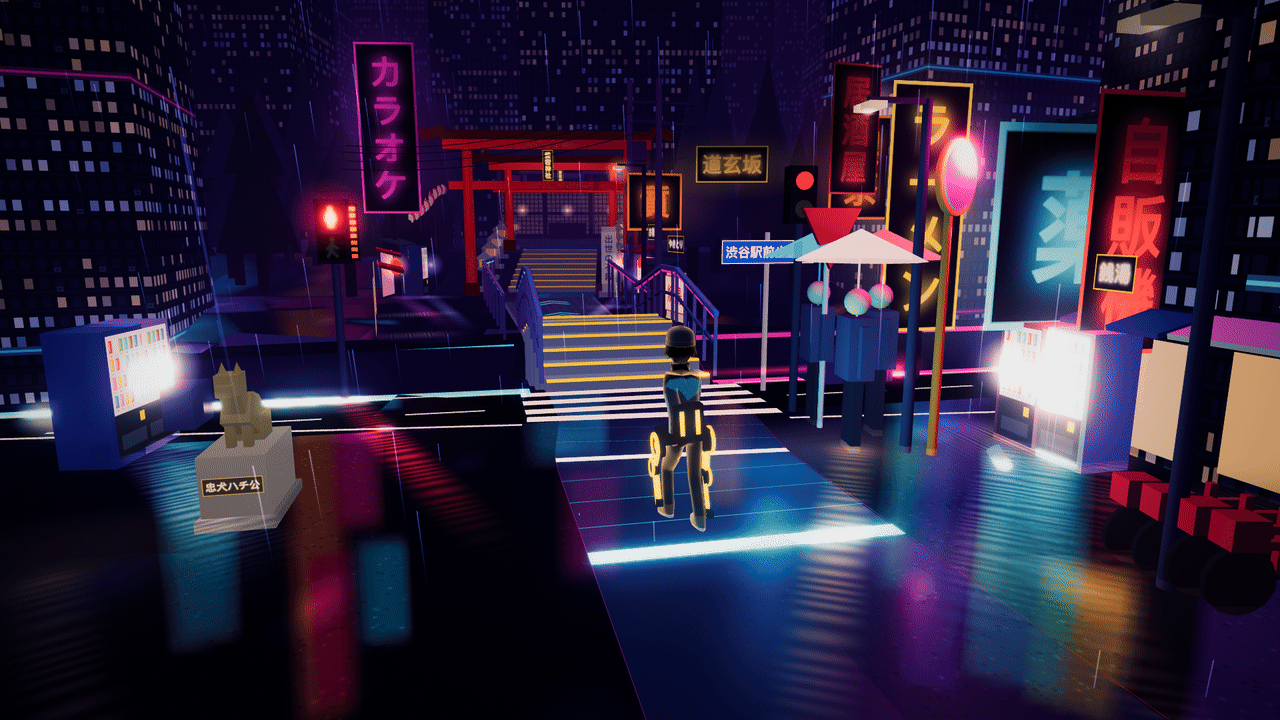
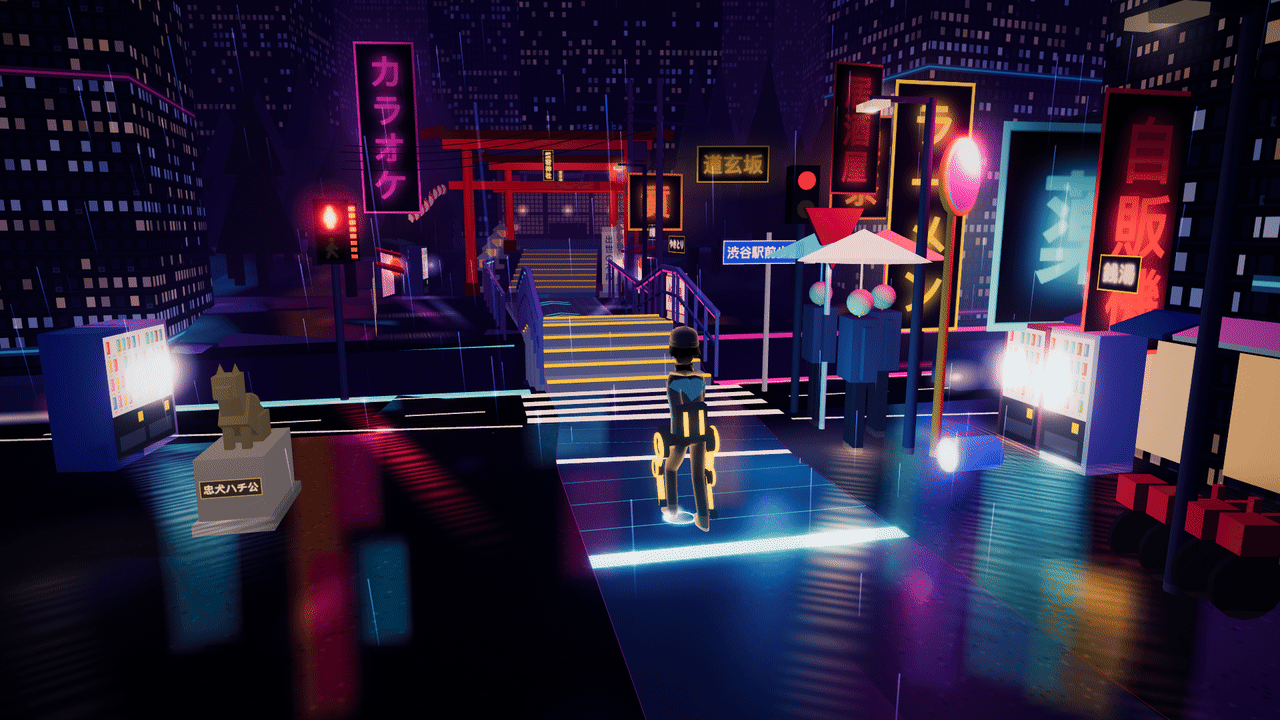
M2：东京贩卖机的罐子放大（3 米外看得清）+ kit.sfx 乘设置页音效音量、离线预览不出声

diff --git a/shellos/ui/static/game/themes/cyber_night/interact.js b/shellos/ui/static/game/themes/cyber_night/interact.js
@@ -13,16 +13,16 @@ export function buildInteract(scene, ctx, E) {
   const vend = (E.vend || []).filter(v => v.s < route.N - 2);
   const flashMat = new THREE.MeshBasicMaterial({ color: '#dff4ff', transparent: true, opacity: 0, depthWrite: false, blending: THREE.AdditiveBlending, toneMapped: false });
   const flash = new THREE.Mesh(new THREE.PlaneGeometry(0.56, 1.18), flashMat); flash.visible = false; flash.name = 'vendFlash'; scene.add(flash);
-  const can = new THREE.Mesh(new THREE.CylinderGeometry(0.065, 0.065, 0.22, 12).rotateZ(Math.PI / 2), new THREE.MeshBasicMaterial({ color: '#e8283a', toneMapped: false }));
+  const can = new THREE.Mesh(new THREE.CylinderGeometry(0.15, 0.15, 0.46, 16).rotateZ(Math.PI / 2), new THREE.MeshLambertMaterial({ color: '#e8283a', emissive: '#5a0a12' }));   // 比真罐大 2 倍多：3 米外看得清（吃光，不走泛光，免得颜色白成一团）
   can.visible = false; can.name = 'vendCan'; scene.add(can);
   const trig = vend.map(() => kit.edge()), cp = new THREE.Vector3(), cv = new THREE.Vector3();
   let fT = 0, cT = 0, cy0 = 0, cols = ['#e8283a', '#2a6cff', '#f2c230', '#2fbf6a'], ci = 0;
   const drop = v => {
     const n = new THREE.Vector3(Math.sin(v.ry), 0, Math.cos(v.ry));            // 机身正面朝路
     flash.position.set(v.a.pos.x + n.x * 0.27, v.y0 + 0.64, v.a.pos.z + n.z * 0.27); flash.rotation.y = v.ry; flash.visible = true; fT = 0.6;
-    cp.set(v.a.pos.x + n.x * 0.32, v.y0 + 0.22, v.a.pos.z + n.z * 0.32); cy0 = v.y0 + 0.07;
-    cv.copy(n).multiplyScalar(1.3).add(new THREE.Vector3((R() - 0.5) * 0.4, 1.1, (R() - 0.5) * 0.4)); cT = 2.5;
-    can.material.color.set(cols[ci++ % cols.length]); can.visible = true; can.rotation.set(0, v.ry + Math.PI / 2, 0);
+    cp.set(v.a.pos.x + n.x * 0.4, v.y0 + 0.3, v.a.pos.z + n.z * 0.4); cy0 = v.y0 + 0.15;
+    cv.copy(n).multiplyScalar(1.6).add(new THREE.Vector3((R() - 0.5) * 0.4, 1.6, (R() - 0.5) * 0.4)); cT = 3.0;   // 抛高一点、滚远一点，停在路边多留一会
+    const cc = cols[ci++ % cols.length]; can.material.color.set(cc); can.material.emissive.set(cc).multiplyScalar(0.35); can.visible = true; can.rotation.set(0, v.ry + Math.PI / 2, 0);
     kit.sfx('can');
   };
 

diff --git a/shellos/ui/static/game/themes/kit.js b/shellos/ui/static/game/themes/kit.js
@@ -210,9 +210,10 @@ export function stepFx(ctx, { dust = '#d8cbb4', flash = '#fff2c8', add = false, 
 // 一次性触发：edge(on) 在 on 从假变真的那一帧返回 true（同一圈只响一次；on 变回假再变真才再响）
 export function edge() { let was = false; return on => { const r = on && !was; was = !!on; return r; }; }
 
-// 音效：WebAudio 现合成（不下载文件）。sfx('can' | 'bell' | 'splash' | 'chime' | 'flutter')。?sfx=0 静音。
+// 音效：WebAudio 现合成（不下载文件）。sfx('can' | 'bell' | 'splash' | 'chime' | 'flutter')。?sfx=0 静音；离线预览（?preview=）不出声（选山页一排预览不会一起响）。
+//   音量再乘 U 设置页的「捷风 / 音效音量」（window.__settings.get('vSfx')，0–100；设置页只管 <audio>，WebAudio 这里自己乘）。
 //   浏览器不让没交互过的页面出声：上下文挂起时等第一次按键 / 点击再恢复（空格走路就算）。音量都压低，峰哥说话时不抢
-const SFX_ON = new URLSearchParams(location.search).get('sfx') !== '0';
+const SFX_Q = new URLSearchParams(location.search), SFX_ON = SFX_Q.get('sfx') !== '0' && !SFX_Q.has('preview');
 let AC = null;
 function audio() {
   if (!SFX_ON) return null;
@@ -224,8 +225,9 @@ function audio() {
   return AC.state === 'running' ? AC : (AC.resume(), null);
 }
 export function sfx(name, vol = 1) {
-  const ac = audio(); if (!ac) return;
-  const t = ac.currentTime, out = ac.createGain(); out.gain.value = 0.22 * vol; out.connect(ac.destination);
+  const ac = audio(), k = window.__settings ? window.__settings.get('vSfx') / 100 : 1;
+  if (!ac || !(k > 0)) return;
+  const t = ac.currentTime, out = ac.createGain(); out.gain.value = 0.22 * vol * k; out.connect(ac.destination);
   const tone = (f, dur, g = 1, type = 'sine', t0 = 0) => {
     const o = ac.createOscillator(), e = ac.createGain(); o.type = type; o.frequency.value = f;
     e.gain.setValueAtTime(0, t + t0); e.gain.linearRampToValueAtTime(g, t + t0 + 0.005); e.gain.exponentialRampToValueAtTime(0.0001, t + t0 + dur);

diff --git a/docs/指挥板.md b/docs/指挥板.md
@@ -18,7 +18,7 @@
 | **J 疾风 NPC**（追兵，致敬版） | `static/game/npc.js`（新，行为）、`static/game/npc_jifeng.js`（新，造型 / 特效）；`engine.js` 只加 import + 1 行 init；`brain/tts.py` 加 `voice` 参数 + `--npc`；`shellos/agent/voice.py` 加 `NPC_VOICE` / `NPC_LINES`、缓存分目录；`server.py` 加 `/voice/npc.wav`（在 `/voice/*` 里）；`docs/提交/素材授权.md`（新） | 原创风系追兵：跟在玩家身后，步频决定远近，走慢了冲刺逼近（前倾 + 拖尾 + 风刃 + 喊一句），走快了被甩开，红灯她也站定；登顶结局「抓到你了」/「被你甩掉了」；只读 /state，不碰任何控制接口；`?npc=0` 关 | **第 10 轮 · 捷风 A/B 候选（等球球挑）**：A = STL 雕像（缺省），B = `?npclook=rig` 程序化造型。B 是 CesiumMan 骨架（和峰哥同一套），直接用 A2 的 `animate()`：用 `synthHip` 按她自己的速度合成步态，冲刺时步频过 150 自动切成跑，登顶抓到时举手，**是真的在跑，不是雕像在飘**。原头盔按 fengge.js 的做法塌进脖口，换成动漫比例的头（半径 0.108 / 0.13 / 0.101 m，头高约身高 1/5.6，下巴收尖）；脸是 canvas 手绘的扁平动漫脸（`jettFace()`：蓝色大眼、粗眼线外眼角上挑、半垂的上眼皮显得冷淡、细眉、小嘴一边嘴角略翘、脸颊一道白色风纹），正投影贴在前半球；白发是低多边形、平面着色：发帽 + 5 片刘海 + 两侧鬓发 + 后脑偏上扎起的短马尾（钴蓝发圈）；身上是钴蓝短外套（躯干分区）+ 白色立领 + 白护臂（肘到腕）+ 右胯偏后三把飞刀（银刃、深色柄）。配色全部读 `WHO.jett`。加起来约 2.5k 三角，不用 LOD（STL 那边已经接了 lod.js）。原创造型现在也改用 A2 的 animate。**截图**：`docs/提交/截图/npc_ab_overview.png`（2 列 × 3 行，左 A、右 B：东京跟拍 / 珠峰正面 / 近景看脸），单张 `npc_ab_{tokyo,everest,face}_{stl,rig}.png`，B 跑起来 `npc_ab_rig_run_1~3.png`。STL 雕像**没贴手绘脸**：它的脸是雕出来的五官，画上去对不齐，反而怪；要贴的话告诉我。帧率：这台机器负载 40（其他会话开着好几个 Chrome），测出来的 fps 不作数，B 比 A 少约 4 万三角。<br>**第 9 轮 · STL 雕像默认打开 ✅（M2 实测）**：合了 main（含 L 的 d260001 清洗拷贝）。先确认展位机上的 lighting.js / npc_jifeng.js / npc.js 和合并后的一模一样（md5 相同）。在展位机上开无头 Chrome（Metal，M2 Pro），**没碰 8765**：临时起一个只读静态服务 8877（多线程、监听队列 128），/worlds.json 用 CDP 从本机塞进去，用完关掉。缺省档（泛光 + 4×MSAA）：**对照 `?npc=0` 0% 黑**，所以这个环境现在是有效的对照；`?npcstl=1` 0% 黑、60 fps；原创造型 0% 黑。颜色 / 轮廓光目测正常：钴蓝外套、白发、风白拖尾和风刃，白轮廓光，没有青。所以把 STL 改回**默认开**（总指挥的热修那两行换掉了）：`?npcstl=0` 用原创造型，`=<url>` 换文件。改完用 CDP 把新的 npc_jifeng.js 塞进 M2 的页面、不带参数再验：东京跟拍 / 珠峰正面镜头都加载了雕像、0% 黑、60 fps；`?npcstl=0` 正常退回原创造型。截图：`docs/提交/截图/npc_tokyo_m2.png`、`npc_everest_m2.png`（M2 实拍，珠峰正面镜头下峰哥全身露出来）。展位机上的无头 Chrome、8877、/tmp/j-cdp、隧道都清理了。<br>**第 8 轮 · 标签避让 ✅**：捷风的名字牌和气泡照 hud.js 影子标签的做法，和 HUD 面板重叠就挪到面板下面，放不下就挪到上面。避让列表是 hud.js 的 AVOID 再加 `uidle` / `uqr` / `ghostTag`。`--sim` 验证：不按 R2（`#uready` 显示），80 步/分追上后连续采样 8 次，每次都在说话、都不重叠；强制出气泡时 bbox 标签 [763,482,910,543] 对 面板 [375,297,904,437]，不重叠，也没压到影子标签。<br>**第 7 轮 · ART P0/P1 ✅**（已合 main 3da7c39）：① **站位**（§6 构图铁律）：`LAT` 0.85 → **−0.9**，走右路沿，也就是离跟拍镜头（左后 1.4）远的那一侧，影子在 −0.5；不再进「镜头 → 峰哥」的视锥。追上的那一下绕 1 s 小弧：往前 0.35 步、往峰哥肩膀那边切 0.6（到 −0.3），然后回路沿；登顶抓到时站在峰哥右后侧。截图：`npc_art_tokyo_follow.png`（跟拍，峰哥全身露出来，她在右边）、`npc_art_tokyo_front.png`（正面镜头，峰哥全身、她在他身后侧面）、`npc_art_everest_p24.png`（北坳冰壁，就是 ART 截图里被挡的那个位置）、`npc_art_chase_1~3.png`（`--sim` 80 步/分追上，风白拖尾）。② **配色**：全部改读 `style.js` 的 `WHO.jett`：外套钴蓝 `coat`、白发 `hair`、拖尾 / 风刃 / 风环 `wind`（`#eaf2ff` 风白，原来是青 `#9ff3ff`）、轮廓光 `rim`（`#f2f6ff` 白，原来是青 `#bfeeff`）；原创造型和 STL 雕像都换了。名字牌蓝底白字、白边，气泡白字、蓝边。`tests/test_style.py` 通过。③ 标签离头顶 0.45 → 0.28，跟着她自己的头走，离镜头近时不再飘很高；出画时钉在右下（她在右边）。④ 按 P 线的接法接了 `lod.js`：`simplify(geo, 0.012)` 做远档、双面，6 m 外切换（`?npcstl=1` 本机验过能加载、无报错）。STL 仍然默认关，等 L 修好后期、在 M2 上验过再打开。<br>**第 6 轮 · M2 黑块排查（没查清，STL 保持默认关）**：① 在展位机上开了无头 Chrome（Metal，`ANGLE Metal Renderer: Apple M2 Pro`），用 CDP 截图，开头两次确实复现了「捷风」标签居中的黑块。**但对照组作废了整轮结论**：同一个无头环境里 `?npc=0`（完全没有 NPC）也是 100% 黑、原创造型也黑，只有 `?aa=0` / `?bloom=0` / `?fx=off` 不黑。所以**无头 Chrome 在 M2 上的 4×MSAA + 半浮点 + 泛光本身就出黑**，和雕像无关，它复现不了展位的真实问题。在它上面做的 clamp、centroid 插值、材质换成纯色、三角形砍到 1/4、藏雕像、藏拖尾这些 A/B 都是 99% 黑，**全部不作数**。② 真正排除了的：雕像 22,271 个顶点里没有 NaN 或零长度的法线，坐标都在 ±5 以内（本机页面里逐个查的）；lighting.js 第一帧收集投影物体和 NPC 异步加载确实有竞态，但雕像没被收进去（cast / recv 都是 false）时照样黑，所以不是它。③ 留下的改动：菲涅尔 `pow` 的底数 clamp 到 [0,1]（pow 负数在 GLSL 里没有定义，属于防御性写法，已注明不是黑块的原因）；centroid 已撤回；STL 仍然默认关（总指挥的热修不动）。④ **下一步建议**（要在展位的真实 Chrome 窗口上看，无头不行）：在展位浏览器依次开 `?npcstl=1&aa=0`、`?npcstl=1&bloom=0`、`?npcstl=1&fx=off`，看哪个不黑，再定修法：MSAA 类可以给雕像单独关抗锯齿 / 改用 FXAA，泛光类就给泛光输入加 NaN 过滤。⑤ `?npc=0` 加载失败：合了新 main（监听队列 128）后，本机 GPU 无头 `/game?npc=0`（实时和预览）都能 ready、errlog 空，复现不了，跟连接 RST 的解释对得上；展位上还没复验（8765 当时在重启，端口没开）。⑥ 展位机上我开的无头 Chrome（9333）、临时静态服务（8877）、SSH 隧道都关了，/tmp/j-cdp 也删了；没碰 8765、没发 POST、没改展位的文件。<br>**第 5 轮 · 捷风 STL 雕像接进游戏 ✅**：Sketchfab 要登录，没用。改用 Thingiverse thing:4326703（作者 Frojj123，CC BY 4.0，粉丝原创的 3D 打印手办，不是游戏提取），总指挥放在主工作区的 `models/jett/jett.stl`（已被 git 忽略）。① `vendor/STLLoader.js`：本机只有 three **0.169** 官方包里的 STLLoader（0.160 不在 npm 缓存里；为了一个文件下整个包就没下）。它引用的 BufferAttribute / BufferGeometry / Color / FileLoader / Float32BufferAttribute / Loader / Vector3 / SRGBColorSpace 在 r160 里都有，实测能正常解析。② 加载：先 `mergeVertices`（STL 每个三角形各存 3 个点，不合并的话法线是平的），Z 朝上转成 Y 朝上，缩放到化身身高、脚底落地；这个 STL 本来就面朝 +X，所以 `yaw = 0`（4 个角度截图确认过：站姿、双臂下垂、没有底座），再 `computeVertexNormals` 让表面平滑。③ 按区域烘顶点色：靴 < 8%、腿 < 54%、外套 < 80%，80–93.5% 里朝前的算脸（肤色），其余算头发（白）；36–56% 高度、离中线 > 0.19 的算手套（深色）。材质是 Lambert 加自发光打底 30%、再加菲涅尔轮廓光，东京夜景里看得清。边界都在 `npc_jifeng.js` 的 `STATUE` 表里，对着截图调过。④ 动作「风系飘行」：离地 7 cm 浮着，走的时候上下起伏 ±5 cm，停下来慢慢起伏 ±3 cm，再加一点呼吸（身高缩放 ±1.2%）；前倾 0.03，走的时候 +0.1，冲刺再 +0.32 rad；冲刺时拖尾拉长（历史点间距 5 → 15 cm，最长约 3.6）+ 风刃；追上的那一下绕一个 1 s 的小弧（往前 0.35 步、往玩家那边切 0.3、身体跟着转）再站定；登顶被甩时弯腰。优先级：`scene.gltf` → `jett.stl` → 原创造型，都没有也不会报错。⑤ 性能：+7 次绘制、+4.4 万三角（东京预览 84 次 / 7.7 万 → 91 次 / 12.2 万）。无头 Chrome 走 GPU 的帧率噪声太大（同样没有 NPC，两次分别是 30.1 和 45.6），看不出雕像带来的差别，所以**没抽稀**；展位 M2 上要是掉帧，再加载时抽稀，或者远处换原创造型。⑥ 截图 `docs/提交/截图/npc_jett_stl_*.png`：preview（东京天桥冲刺）、front（正面看配色）、slow_1~6（`--sim` 泰山 80 步/分：gap 2.50「가자」→ 1.45「就这？빨리빨리」→ 0.70 追上、绕弧、「回头看看？我在这儿。」）、fast_1~3（130 步/分：2.76 → 4.69 甩开「哟，跑挺快嘛。」）、summit（登顶抓到「又是我先到，拜。」）。⑦ 素材授权.md：模型那一行改成 Thingiverse / Frojj123 / CC BY 4.0、粉丝原创手办、角色 IP 属于 Riot、不进 git；Sketchfab 那一行写「未采用（要登录）」。<br>**第 4 轮 · 方案 A：改名「捷风」+ Sketchfab 模型（没用上，要登录）**：球球知情后决定推翻「原创致敬版」（总指挥转达）。① `角色名` 缺省改成「捷风」，代码注释里的疾风也都改了；文件名、变量名没动。② `.gitignore` 加了 `shellos/ui/static/models/jett/`（用占位文件验过会被忽略）。deploy.sh 的 rsync 没有读 .gitignore，只排除了 .git / .venv / recordings 这些，所以模型会同步到展位机。③ `npc_jifeng.js` 用 GLTFLoader 读 `/models/jett/scene.gltf`：缩放到化身身高、脚底落地、正面转到 +X，贴图顺便当自发光打底，夜景里不会黑成一团。骨骼按名字匹配（thigh / upleg / leg、calf / knee、upperarm / arm、spine、head），左右按绑定姿态的位置分，摆动轴换算到每根骨骼自己的局部坐标，不依赖骨架的命名和轴向；T 字姿势的上臂自动放下 70°。自带的格斗站姿在「追上后站定」和「登顶抓到」时播放。模型 404、坏文件或者找不到腿骨，都**静默退回原创造型**，页面不报错（验过：没有模型时是原创造型，errlog 空）。**用 CesiumMan 冒充外部模型（`?npcmodel=/models/CesiumMan.glb`）把通用骨骼匹配走了一遍**：侧面看跑步姿势方向正确，前倾、大腿前摆、小腿后折、手臂反向摆。调试参数：`?npcmodel=` 换模型、`?npcmodel=0` 强制原创、`?npcyaw=` 修正朝向。⚠ 服务器 `_static` 给 .gltf / .png / .bin 回的是 application/octet-stream，按理不影响 GLTFLoader 解码，模型到了再实测。④ 素材授权.md 照实改了：模型来自 BojanV06（标 CC-BY，原始 IP 属于 Riot，很可能是游戏提取），球球知情后用于非商业黑客松展示，不进 git、不公开分发；角色名「捷风」属于 Riot 的 IP；原创造型只做退路。语音那一行来源不变，只把「外形和名字仍然原创」这句过期的说法改掉了。录音台词单里的同意示范句也改成了「角色『捷风』」。⑤ 「名字写错了」：等总指挥问清楚是角色名还是配音演员名（J 线的文件里没写配音演员的名字）。<br>**第 3 轮 · 配音演员本人现场录（等录音）**：本人当面同意（总指挥转达，记在留言里）。界限：只用本人**现场新录**的声音，不用游戏音频，不念游戏原台词；外形和名字仍然原创。① 录音台词单 `docs/提交/疾风录音台词单.md`（已发总指挥转球球）：原来的 6 句 + 新写的 5 句（被甩开 2「喂！我还没热身呢。」、追上 2「回头看看？我在这儿。」、红灯一起停「红灯。站好，我也不动。」、绿灯「绿灯了，가자！」、登顶嘲讽「山顶风大，站稳了。」），每句标了情绪，再加 30–60 s 自由说话；录音要求和同意视频的提醒都写在里面。② 接收：`brain/npc_intake.py` 读主工作区 `data/voice/npc_raw/`（`01~11.*` 一句一个文件，或者整段录、按 ≥0.9 s 的停顿切；`free.*` 是参考音频），用 ffmpeg 解码，按停顿切句、取最后一遍、去掉首尾静音，响度归一到 RMS −18 dBFS、峰值 ≤ −1 dBFS，输出 24 kHz 单声道 16 bit，放进 `data/voice/npc/real/`；每一段另存到 `npc_takes/`，自动挑的不满意可以用 `--use 09 <文件>` 换。`free.*` 转成 `data/voice/ref/jifeng_ref.m4a`。`/voice/npc.wav` **真人录音优先**，没有的再合成。已经有复刻 ID（`data/voice/npc_voice_id`）就用复刻音色，没有才用预设候选。③ 复刻：`tts.py --clone-npc`（9.9 元，**问过球球、确认后才跑**；`clone()` 改成可以传参考音频 / ID 文件 / 前缀，峰哥的行为不变）。游戏里 LINES 改成一个事件可以有好几句、随机挑一句，新增红灯 / 绿灯事件。用 `say` 生成的假录音走通了一遍：整段两遍切成 2 段、用最后一遍，输出 24 kHz / 1 ch / Int16，参考音频 16 s → m4a。test_voice 14 过（新增：真人优先不再合成；切句 + 归一化 + 输出格式）。素材授权.md 已写明「本人当面同意、现场新录、不是游戏素材」。<br>**第 2 轮 · 音色候选（等球球挑）**：第一版「清脆少女」球球说一点都不像。界限没变：不复刻捷风中文配音（真人）、不用游戏音频。从官方系统音色（国内站 get_voice 拉的 303 个）里挑了 4 个，都调了语速 / 音高 / 情绪：**A 嚣张小姐** `Arrogant_Miss`（1.2 / +1 / happy）、**B 韩语冷漠女孩** `Korean_ColdGirl`（1.25 / +1 / disgusted）、**C 韩语女冒险家** `Korean_BraveAdventurer`（1.25 / +2 / angry）、**D 俏皮萌妹** `qiaopi_mengmei`（1.3 / −1 / surprised）。台词重写成嘴欠刺客味，原创，夹通用韩语感叹词：가자！你先跑三秒。/ 就这？빨리빨리！/ 逮到了，慢死了。/ 哟，跑挺快嘛。/ 又是我先到，拜。/ 啧，算你走运。试听用其中 4 句，每个候选同样 4 句，一共 16 条全部成功，200 计费字符（约 $0.02）。文件在主工作区 `data/voice/npc_candidates/<候选名>/1~4.wav`（不进 git）。试听：`cd data/voice/npc_candidates && for d in */; do echo "== $d"; for f in "$d"*.wav; do afplay "$f"; done; sleep 1; done`。**选定后**：`voice.py` 里 `NPC_VOICE` 的缺省改成那个候选名，再跑 `brain/tts.py --npc`，只有 2 句要新合成，另外 4 句试听时已经进了缓存。在那之前，缺省还是清脆少女，新台词会现场合成。代码改动：`voice` 参数可以传完整的 voice_setting 字典（tts.py 只收 voice_id / speed / pitch / vol / emotion 这几个字段），带 NPC 音色时 `language_boost=auto`；`tts.py --npc-candidates`；新增测试 1 条（字段透传、auto、参数不同缓存分开），test_voice 13 过。<br>✅ 第 1 轮：分支 `claude/recursing-gould-f7e62a`（未 push、未合 main）。**造型**：复用 CesiumMan 换装（深蓝腿、蓝外套、白头）+ 往后吹的白发（6 个锥，合成一个网格）+ 白色高领，冲刺时 3 条加色拖尾 + 两道绕腰的月牙风刃，「抓到」时脚下一圈风环。没用 Quaternius：多一个 glb，骨骼名不一样，pose 接不上。角色名是 `npc_jifeng.js` 顶上的 `角色名` 常量（缺省「疾风」，也可以临时 `?npcname=`）。**行为**（`npc.js` 顶上的 `NPC` 表）：落后 gap 步，起始 2.5；走的时候 gap 每秒变化（步频 − 100）/ 40 步；站着不走（不是红灯）每秒贴近 0.4 步；**红灯 gap 冻住**、不冲刺、不喊；gap ≤ 0.7 算追上，≥ 4.5 算甩开（她藏到镜头后，左下角留「疾风 ↓ 落后 N 步」）；登顶时 gap < 3 →「抓到你了」，她冲到玩家左后侧 + 风环，否则「被你甩掉了」，停在原地弯腰喘气；登顶卡收起后 gap 回到 2.5。她走左侧路沿（横向 +0.85），不和右边的影子叠在一起。距离按真实时间积分，掉帧也不会追得慢。**声音**：MiniMax 系统预设音色 `Chinese (Mandarin)_Crisp_Girl`（官方系统音色列表里的，不是复刻，不花 9.9），台词原创 6 句：风起了 / 别停 / 追上你了 / 等等我 / 抓到你了 / 被你甩掉了；`/voice/npc.wav?t=` 只念这 6 句白名单，别的回 204；缓存 `data/voice/npc/`，和峰哥的分开。在主工作区 brain 目录用 `brain/.env` 的 key 真跑了一次 `tts.py --npc`：6 句全部成功，42 个计费字符，每句 1.0–1.3 s，wav 已经放进主工作区 `data/voice/npc/`（deploy 时跟着 data/voice 一起同步）。?voice=0 静音，预览不出声。**验收**：`pytest` 108 过 1 挂（worktree 里没有录制文件的那条 stress，和以前一样；新增 2 条：白名单 + 分目录缓存、预设音色不需要复刻）。截图（1080p，无头 Chrome 走 Metal GPU，swiftshader 一帧要 40–90 s，没法连拍）在 `docs/提交/截图/`：`npc_preview.png`（东京天桥、冲刺、「别停」）；`--sim` 泰山 80 步/分 `npc_sim_slow_1~3`（gap 2.50「风起了」→ 1.67「别停」→ 0.70「追上你了」，从起步到追上 5.8 s）；130 步/分 `npc_sim_fast_1~3`（3.37 → 4.80「等等我」→ 5.50 甩开，3.7 s 甩开）；东京红灯 80 步/分 `npc_sim_red_1~2`（第 4 步红灯站住，gap 1.39 连续 7 s 不变）；`npc_summit_caught.png` / `npc_summit_shaken.png`（登顶两种结局）。**性能**：东京预览加 NPC 前后是 84 → 93 次绘制，77.3k → 82.5k 三角形（+9 次、+5.2k）。`?npc=0` 时没有 NPC 也没有标签（验过）。**没做到**：A2 的动画没接（接口写在下面的留言里）；红灯时她停在路左侧，镜头在左后方，偶尔会挡住化身的一部分；登顶环绕镜头下她的名字牌位置是按头顶投影算的，离得近时会偏高 |
 | **R 跑酷**（球球的屋顶跑酷，分支 claude/distracted-darwin-3d3c88） | `static/parkour.html`、`static/parkour/**`（`logic.js` 纯逻辑 / `city.js` 场景 / `main.js`）、`tests/test_parkour.py`（新）；`server.py` 只加 `/parkour` 路由 + `/parkour/` 静态前缀（3 行） | 独立新页 `/parkour`：第三人称跟跑 · 夜里城市屋顶 · 峰哥 · 无尽模式撞 3 次结束（球球 9/23 选的都是推荐项）。步频 = 跑速，高抬腿 = 跳，双腿下蹲 = 滑铲，键盘 ←→ 换道；捷风在后面追 | **v1 能玩，未 push**。**玩法**：3 条道，楼缝 / 空调外机（跳）、晾衣杆（蹲）、水箱（换道）、斜板上更高的楼；步频 → 速度 0.075 m/s 每步/分（100 → 27 km/h，200 封顶 54 km/h）；捷风开局站你身边喊「가자！你先跑三秒。」，3 s 后开追，速度随距离涨（1000 m 时 ≈ 步频 137），追上算撞一次；高抬腿或回车再来一局，最好成绩存 localStorage。**腿**：屈髋减 A2 学出的零点（`av.body.off`），一条腿 > 45° 且还在抬、另一条 < 30° = 跳；两条都 > 35° = 滑铲；走满 5 s 才开（零点没学出来前穿戴偏屈 15–20°，会误触发）。阈值在 `logic.js` 的 `TUNE`，现场可以用 `?jump=&slide=&vjump=` 调。node 测试：正常走路 20 s 0 次误触发。**腿上的力**：只调 `POST /terrain/force`：斜板 = `up`，落地 0.5 s = `down`，前方 0.9 s 内要跳 = `lift`（只在摆动期帮抬腿；9/23 台阶力反过来后从 `stairs_up` 换过来），其余 null；非 null 带 ttl 1 s、每 300 ms 续；大小仍归 Guard + R2。页面失焦 / 隐藏 / 关掉 / 一局结束 / 没开跑都回 null（实测失焦 2 ms、切走 39 ms 服务端就是 null）。**没兜住**：浏览器崩了（SIGKILL，pagehide 不触发）force 会留在最后那个值，见留言。**验收**（9/23 晚重拍，捷风改名 + 美术范式之后）：`--sim` 自动驾驶（`?auto=0.96&seed=12`）完整一局 127 s / 1123 m，9 张 `docs/提交/截图/parkour_01_title` … `parkour_09_over.png`（开场捷风站右边 → 跳（脚下台阶黄起跳沿、对面下坡蓝落地沿）→ 换道 → 滑铲 → 跑 → 捷风逼近（右上角变红）→ 撞 1 / 撞 2 → 被捷风抓住），这局 force 出现过 null / up / lift / down。**美术**：颜色全从 `game/style.js` 取（`applyCssVars()` + `SEG` / `PALETTE.parkour`），按 ART §R 改了 5 条 P1：捷风钴蓝名牌、起跳障碍前沿台阶黄、斜板两侧上坡绿、换道提示紫、捷风只在离镜头 ≥ 2.5 m 且横向 1.8 时现身（站峰哥另一侧，不压左下腿力面板）；另外车道线青 → 月光白（青撞下坡蓝）、楼沿警示带黄黑 → 灰黑（黄 = 台阶）。P2 光影管线没接（要 L 线给预设）。**性能**：这台开发机是 2017 款 AMD Radeon Pro 555（没有 M2 可测），无头 Chrome 走 Metal、1920×1080：**60 fps（到顶）**，`?fx=low` 也是 60；绘制 ≤ 102 次、≤ 3 万三角。最大的坑是 HUD 面板的 `backdrop-filter: blur`（34 → 60 fps 就差它），已去掉；fx=low 降分辨率到 0.75 反而更慢，改成只关抗锯齿 + 远景楼减半。pytest 114 过（worktree 缺 `data/recordings/synthetic-walk.csv`，那条 stress 借主工作区的文件软链后才过，和以前一样）。**没做**：真机没穿过，高抬腿 / 下蹲阈值只按 A2 录制的量级估的；没有峰哥解说 / 金币 / 排行榜 |
 | **L 光影** | `static/game/lighting.js`（新）、`static/vendor/postprocessing/`、`static/vendor/shaders/`（three 0.160 官方包原样拷，不走 CDN）；`engine.js` 只动 3 处（import、渲染器 antialias 那行 + `makeLighting()`、`renderer.render` → `lit.render(ctx, A, s, summit)`） | 电影感光影 + 守住帧率 | ✅ **第 2 轮：展位「一直闪」已修**（lighting.js）。**原因**：场景画进 4×MSAA 半浮点目标，Apple GPU（ANGLE/Metal）resolve 出来带非有限值 / 负数像素，泛光的模糊链把坏点抹满整屏 → 整帧发黑；雨、车流让坏点时有时无 → 黑帧和正常帧交替。Intel 上不出现（第 1 轮只在 M2 Pro 上测了帧率没看帧，漏了）。**二分**（MacBook 无头 Chrome/Metal，东京静态画面，每 120 ms 一帧的平均亮度）：`?fx=off` ≈51；缺省 ≈4（黑）；`?aa=0` ≈52；`?fx=low`（MSAA 无泛光）≈47；`?shadow=0`（MSAA + 泛光）≈4。**修法**：场景单独画进自己的 MSAA 目标 → 一道清洗拷贝（NaN→0、夹 0..64）进不带 MSAA 的后期缓冲，泛光 / 光束 / 输出只碰后期缓冲。修后在 MacBook（Metal，无头 Chrome 1280×720）逐帧复验缺省档，全部不黑不闪、帧间变化和 `?fx=off` 同量级：东京 pos 6 ≈52–54、泰山 pos 24 ≈54 / 登顶 ≈100、富士 pos 6 ≈27 / pos 30 ≈65 / 登顶 ≈124、珠峰 pos 1 ≈127 / pos 29 ≈167 / 登顶 ≈128、梧桐 pos 10 ≈87、训练场 pos 6 ≈68（离线预览，每主题 6 帧 × 120 ms）；**实时 /game**（MacBook 的 Chrome 经隧道连我本机的 --sim 8873）：东京站在红灯 60 fps、25 帧亮度 48–55；富士走一整圈 60 fps，亮度随天亮 25→71 平滑上升，登顶后新一圈回到夜里（那一下是换圈，不是闪）。**第 2 轮补充验收**（MacBook Metal，缺省档，离线预览每个 30 帧 × 120 ms 的画面亮度，黑帧 = 低于中位数一半）：东京 `&npcstl=1` 均值 54.8 / 标准差 1.11 / 黑帧 0（同画面 `?fx=off` 52.5 / 0.77，差别是雨和车流）；珠峰 pos 29 `&npcstl=1` 167.3 / 0.23 / 0；泰山 pos 24 56.9 / 0.13 / 0；富士 pos 30 67.8 / 0.08 / 0；梧桐 pos 10 88.3 / 0.11 / 0；训练场 pos 6 70.6 / 0.17 / 0。**捷风 STL 雕像在 M2 上正常**（东京、珠峰都看过），STL 默认可以改回开（已告诉 J）。**坏点从哪来**（读回场景目标数半浮点 NaN，东京 pos 6）：全场景约 24–39 个 NaN 像素；藏掉捷风雕像或影子几乎不变（不是 STL 的锅）；藏掉化身降到 6，是最大的一处。化身轮廓光 `pow(fr, 2.2)` 里 `fr = 1 − |dot|` 会因浮点误差略小于 0，Metal 上 pow(负数) = NaN，改成 `pow(max(fr, 0.0), 2.2)` 后 24 → 17（avatar.js 不在我名下，只在 MacBook 测试副本上试过，没提交）；剩下的还有化身别的部件、八公像等，按规矩只查了一轮。清洗拷贝把这些都挡住了，不用等它们修。**稳**：自动降档改成默认关（`?auto=1` 才开；它每降一级都重编译材质、画面跳一下，世界切换时掉帧会误触发）。snow_summit 按 E 的值加进 PRESET（vig 0）。珠峰实时走一段：亮度随风雪平滑 130→170、到北坳停住，光影参数全程不变，缺氧层按设计呼吸。<br>第 1 轮：✅ **主题文件一行没改**，按 `theme.style` 在 lighting.js 里配。**管线**：场景照旧在着色器里编码成 sRGB 写进半浮点 4×MSAA 目标（半透明的雾、雨、影子照旧在 sRGB 空间混合，主题调好的样子不变）→ 泛光（阈值按最亮通道，霓虹 / 灯 / 日轮过线、白衣化身不糊）→ 光束（有 `sunGlow` 的泰山 / 富士山，滤色叠加，只提亮剪影边）→ 最后一道：解码 → 曝光 + ACES（每主题白点，白天主题 1.0–1.3，不然云和日轮会被压成一团灰）→ 冷暖分离 / 暗角 / 抖动。**阴影**：太阳 PCF 软阴影，阴影盒 ±13 跟着化身前方 4 走（按贴图像素对齐不闪），投影 = 不透明、吃雾、半径 < 30 的网格 + 所有实例化网格 + 化身；路面、地面只接影。**分主题**：东京湿路面挂画出来的霓虹环境图（水洼反得多，0 次额外绘制）、冷暗暖亮；泰山逆光 + 光束 + 暖色轮廓；富士山按爬升进度把曝光 / 白点 / 泛光 / 调色 / 化身轮廓光从星空（冷）过渡到御来光（暖）；梧桐山石阶补接影（原来是定色材质）+ 林荫光斑 + 影子里留 50% 天光；训练场暗部略提。**开关**：`?fx=high`（缺省）/ `mid` / `low` / `off`（off = 原来的直出）；单项 `?bloom=0 ?shadow=0\|1024\|2048 ?rays=0 ?grade=0 ?tm=aces\|agx\|none ?exp=1.2 ?aa=0`；`?auto=1` 开自动降档（连续 4 s < 45 fps 降一级，第 2 轮起默认关）；调试 `__lighting.info()`。**帧率**（展位 MacBook 实测，**它是 M2 Pro 不是 M2**；1920×1080、无头 Chrome 走 Metal、关垂直同步取 6 s 平均；离线预览，另起的 `--sim` 8878，测完关了）：东京 pos 6 off 561 / low 314 / mid 230 / high 172；泰山 pos 24 603 / 349 / 162 / 164；富士 pos 6 638 / 390 / 221 / 162；梧桐 pos 10 404 / 219 / 230 / 184；训练场 pos 6 689 / – / – / 216（low / mid 两次都没加载出来，见留言）。开垂直同步时东京 high 60.0 = 顶格。缺省 high 最低 162 fps，普通 M2（GPU 约一半）估计也 ≥ 80，没实测。开发机 Intel 无头 1280×720（负载 45）：off 40–57，high 22–34。**截图**（前 = `?fx=off`，后 = 缺省）：`docs/提交/截图/light_cyber_night.png`、`light_dawn_mountain.png`（含登顶）、`light_night_to_dawn.png`（pos 6 / 22 / 30 / 登顶）、`light_subtropical.png`、`light_grid.png`；5 个主题 + 实时 /game 三档都 0 报错。**不理想**：泰山两处比原来暗一点（拂晓调子）；泰山登顶日轮比原来淡；梧桐山路边没有树冠，「树影」主要靠光斑图案 + 护栏影，真树影落不到石阶上；每帧绘制 +50～70（阴影一遍 + 后期约 15 次） |
-| **M2 地图（对话框）** | `static/game/themes/**` 的几何和道具、`path.js`、`themes/kit.js`、`game.html` 布局；`hud.js` 只动 AVOID（灯光/雾/后期/材质发光归 L，人物/动作/NPC 归 P/A2/J，`engine.js`/`camera.js` 不动） | 接手第 3 轮：先审 → 修坏处 → 每个主题 3 个大屏改动 → `?fx=low` 降级 | **第 3 批 场景互动已提交（分支 claude/focused-shtern-45d528，已 merge main 33d88d7，待合并）**。全部只看化身位置 `st.s` / 进度 / 登顶，只改画面和音效，不调任何控制接口；音效是 WebAudio 现合成（`kit.sfx`，`?sfx=0` 静音，浏览器没交互前不出声，按键后恢复）；都是 3D 里的东西，不加 DOM，不和峰哥气泡抢位置。**东京**：走近贩卖机 → 正面一闪、「咚」地滚出一罐饮料（落地弹一下滚到路边）；等红灯的 3 个撑伞行人，化身走近转身挥手、到跟前往外让一步；奉納提灯走到哪亮到哪（没走到的是暗的，下一圈重新熄）；湿街每一步踩出一圈水花（`stepFx({ wet })`）。**泰山**：爬慢十八时一个挑山工（草帽、扁担、一箱水一袋粮）从前面台阶下来，擦肩时头上冒「加油！」；摩崖石刻（慢十八 / 不紧不慢又十八 / 青云梯 / 岱宗 / 天门长啸 / 万里清风）路过前后 2.5 步发金光；穿过南天门（或登顶）钟响三声、天街屋檐上惊起一群鸟。**富士**：走近山小屋，檐下提灯从一头到另一头一盏盏点亮、门口暖帘被风掀起来；进度过 0.93（御来光）太阳那边一团暖光涨满天、天光亮一下、一声风铃；流星划过时镜头抬头看一眼（最多 20 s 一次；峰哥本人抬头归 A2，没动化身）。**梧桐**：走近蝴蝶群 → 惊起飞散（`flock.agitate`）+ 扑棱声；跨过山涧 → 路两边溅水花 + 水声；到观景台 → 镜头往后上方拉远、偏左，把右边深圳天际线框进来（rigFor，离台一步收回）。**训练场**：眼前那座路段门横梁上一排进度灯（灯数 = 这段步数，走一步亮一盏，路段色）+ 门顶计分牌「已走 n / N 步」+ 进度条；踩过的脚印亮一下。**绘制**：每个互动 1–3 次（行人 3、挑山工 3、其余 1–2）。**`?fx=low`**：东京不放行人，泰山石刻不发光，惊鸟 / 蝴蝶 / 水花减半，其余照常；5 个主题 fx=low 各走一遍触发，都没报错。**截图** `docs/提交/截图/map_interact_*.png`（15 张，泰山惊鸟两张连拍）。**没做到 / 照实写**：音效只在代码里合成，这台机器面板隐藏、没实际听过；互动都在预览里按进度插值触发验的，没用模拟或真机走；东京罐子太小，3 米外主要看得到机身那一闪。（第 1 批 b930b88：审第 3 轮 + 每主题 3 个改动 + fx=low；第 2 批 cb698ca：落阶反馈 stepFx + 每主题再 3 个改动，详情见 git log） |
+| **M2 地图（对话框）** | `static/game/themes/**` 的几何和道具、`path.js`、`themes/kit.js`、`game.html` 布局；`hud.js` 只动 AVOID（灯光/雾/后期/材质发光归 L，人物/动作/NPC 归 P/A2/J，`engine.js`/`camera.js` 不动） | 接手第 3 轮：先审 → 修坏处 → 每个主题 3 个大屏改动 → `?fx=low` 降级 | **第 3 批 场景互动已提交（分支 claude/focused-shtern-45d528，已 merge main 33d88d7，待合并）**。全部只看化身位置 `st.s` / 进度 / 登顶，只改画面和音效，不调任何控制接口；音效是 WebAudio 现合成（`kit.sfx`，`?sfx=0` 静音，浏览器没交互前不出声，按键后恢复）；都是 3D 里的东西，不加 DOM，不和峰哥气泡抢位置。**东京**：走近贩卖机 → 正面一闪、「咚」地滚出一罐饮料（落地弹一下滚到路边）；等红灯的 3 个撑伞行人，化身走近转身挥手、到跟前往外让一步；奉納提灯走到哪亮到哪（没走到的是暗的，下一圈重新熄）；湿街每一步踩出一圈水花（`stepFx({ wet })`）。**泰山**：爬慢十八时一个挑山工（草帽、扁担、一箱水一袋粮）从前面台阶下来，擦肩时头上冒「加油！」；摩崖石刻（慢十八 / 不紧不慢又十八 / 青云梯 / 岱宗 / 天门长啸 / 万里清风）路过前后 2.5 步发金光；穿过南天门（或登顶）钟响三声、天街屋檐上惊起一群鸟。**富士**：走近山小屋，檐下提灯从一头到另一头一盏盏点亮、门口暖帘被风掀起来；进度过 0.93（御来光）太阳那边一团暖光涨满天、天光亮一下、一声风铃；流星划过时镜头抬头看一眼（最多 20 s 一次；峰哥本人抬头归 A2，没动化身）。**梧桐**：走近蝴蝶群 → 惊起飞散（`flock.agitate`）+ 扑棱声；跨过山涧 → 路两边溅水花 + 水声；到观景台 → 镜头往后上方拉远、偏左，把右边深圳天际线框进来（rigFor，离台一步收回）。**训练场**：眼前那座路段门横梁上一排进度灯（灯数 = 这段步数，走一步亮一盏，路段色）+ 门顶计分牌「已走 n / N 步」+ 进度条；踩过的脚印亮一下。**绘制**：每个互动 1–3 次（行人 3、挑山工 3、其余 1–2）。**`?fx=low`**：东京不放行人，泰山石刻不发光，惊鸟 / 蝴蝶 / 水花减半，其余照常；5 个主题 fx=low 各走一遍触发，都没报错。**截图** `docs/提交/截图/map_interact_*.png`（15 张，泰山惊鸟两张连拍）。**没做到 / 照实写**：音效只在代码里合成，这台机器面板隐藏、没实际听过；互动都在预览里按进度插值触发验的，没用模拟或真机走；东京罐子太小（已修：放大到半径 0.15、长 0.46，比真罐大 2 倍多，改成吃光的材质，泛光下不再白成一团，截图 `map_interact_tokyo_vending.png` 已换）。**音量**：`kit.sfx` 乘设置页的「捷风 / 音效音量」（`window.__settings.get('vSfx')`），离线预览（`?preview=`）不出声，和 E 的 `cliff_path/interact.js` 同一规矩。（第 1 批 b930b88：审第 3 轮 + 每主题 3 个改动 + fx=low；第 2 批 cb698ca：落阶反馈 stepFx + 每主题再 3 个改动，详情见 git log） |
 | **E 珠峰地图**（分支 claude/exciting-ptolemy-bc4711） | `shellos/worlds/everest_north.json`（新）、`static/game/themes/snow_summit.js` + `themes/snow_summit/`（新：sky / snow / props / hypoxia）、`docs/提交/截图/everest_*.png`；`worlds/__init__.py` 只改 ORDER 一行（排富士后面）；**engine.js / path.js / kit.js / hud.js 都没改** | 珠峰北坡新世界 + 高海拔雪山主题 `snow_summit` | ✅ **做完，未 push**。**路线** 56 步（按爬升比例压，不按路程）：珠峰大本营 3 平 → 东绒布冰川 19 上坡（Z 字）→ 前进营地 2 平 → 北坳冰壁 5 上台阶 → **北坳营地·吸氧**（wait）→ 北山脊·大风口 19 上坡 → 第一台阶 2 → **第二台阶·排队上梯**（wait）→ 第二台阶·中国梯 3 上台阶 → 顶峰雪坡 1 → 珠穆朗玛峰。HUD 海拔（terrain.py 同一公式算过）：5200 / 6508 / 7024 / 8333 / 8539 / 最后一步 8849；第一、二台阶为了腿感放大了：第一台阶读数比真实低 60–230 m，梯子段 8539–8746（真实约 8580–8680），note 里写的是「±200 m 以内」。**按实地校对**（查证 workflow：新华社 / 澎湃 / 中国日报 / 维基 / Alan Arnette 交叉核对，只写高可信的）：① 去前进营地走的是**东绒布冰川**，任务单写的「中绒布」改了；② **排队挪到第二台阶梯子下面**：北坡公认的堵点就是一次只能上一个人的中国梯，2019 那张著名排队照片是南坡拍的，所以没放在顶峰前；③ 中国梯 1975 年架设，2007 年旁边另架新梯、2008 年原梯拆下收进拉萨珠峰登山博物馆，note 写明；④ 北坳起可以开始吸氧（新华社原文），7500 m 一带叫大风口；⑤ 8848.86 = 2020 年中尼共同公布的雪面高程。**主题**：大本营玛尼堆 + 放射状经幡（旗面在顶点着色器里飘，风雪越大飘得越凶）、黄帐篷、「珠峰大本营 5200 m」石、远处珠峰北壁 + 旗云；碛石路 + 右侧冰塔林；北坳冰壁冰塔、红蓝固定绳 + 雪锥（路右沿外，冰壁起一直拉到顶峰前）、雪道贴图上两排冰爪印（化身线 + 影子线，每步一个）；北坳营地帐篷 + 氧气瓶；第一 / 第二台阶两侧积雪岩块（第一台阶偏黄 = 黄带）；**铝梯**：两根边梁 + 横档压在台阶前沿、顶端翘出，化身踩在横档上；**排队** 5 人（`fx=low` 3 人）红灯时站在梯子上和雪坡上，放行后往上走、翻过顶峰就不见，挡在镜头和化身之间（正面镜头）的自动藏；**顶峰红色测量觇标**（三脚架 + 立杆 + 觇牌 + 天线盘）+ 经幡；登顶镜头从化身左前方起，看得见峰哥的脸，影子和觇标错开在旁边。**天气**按进度：低处晴（藏蓝天、白太阳）→ 过前进营地起风雪（雾收到 5–36、雪粒横飞、远山褪白）→ 排队处转晴 → 登顶 1.2 s 过渡到脚下云海 + 头顶蓝黑天，三层喜马拉雅剪影随爬升沉到地平线下。**缺氧**：按海拔（5300 m 起）画面四周变暗 + 模糊（DOM 两层：径向暗角 + backdrop-filter 模糊带遮罩，插在 canvas 后面、HUD 下面，和 WebGL 后期不相干），随呼吸（14→21 次/分）只改透明度，画面不晃不缩放。**走到才露面**：整条路只有 28 个单位长、4.4 高，大本营一眼能看到顶，所以岩石台阶 / 铝梯 / 排队 / 觇标离 6–9 个单位才溶出来，过了北坳大本营 / 前进营地的帐篷经幡溶掉（站在第二台阶回头不会看见 20 个单位外的大本营帐篷）。红灯面板写这一段的名字（● 北坳营地·吸氧 / ● 第二台阶·排队上梯）。地标按路段类型找、不写死步号，「一句话造山」生成的 snow_summit 世界也能用。藏起来的东西不用 `visible=false`，缩成一个点（还在绘制列表里）：ANGLE / Metal 第一次绘制才建管线，以前雪粒、云海、岩块爬到半路第一次露面各卡 170–220 ms，改后第一次露面 5–8 ms（本机实测）。**对抗式 review**（workflow：正确性 / 接口规矩 / 性能 / 史实 4 个维度，每条再派 2 个复核）找出 8 条，全修了：缺氧呼吸相位拿绝对时间算（开久了越喘越快）、雪粒同样的问题（风速一变整片瞬移）、排队的人会被走得快的化身穿过去 / 新一圈往回滑、顶峰一条经幡绳穿过化身腰部、登顶开场影子被化身挡住、固定绳在路面里（镜头那侧）、上面说的着色器卡顿、note 里海拔误差写反了 + 北坳写成≈7020。**验收**：截图 `docs/提交/截图/everest_{bc,col,ladder,queue,summit}.png`（跟拍）+ `everest_*_front.png`（`&cam=front`），URL `/game?preview=everest_north&pos=1|29|53|51|55&summit=1`（带 `&ghost=`）；无头 Chrome（Metal）按真实时间等 `data-ready` 再截，1920×1080 缩到 1280×720，errlog 全空。`--sim` 走一圈：30.5 s 登顶（laps 0→1），北坳 / 排队两处停下后 2.2 s、2.0 s 放行（站定 1.5 s 规则），实时页面（非预览）也跑过一圈，errlog 空。pytest **108 passed**（`test_fault::test_stress_stack_end_to_end` 要 `data/recordings/synthetic-walk.csv`，那是 gitignore 的，worktree 里没有；从主工作区临时拷进来跑过再删了）。**性能**：**没在 M2 上测**。本机（2017 MBP，Radeon Pro 555）1080p 无头 Metal：珠峰 28–36 fps、泰山同法 27 fps；强制同步渲染测法：空场景 39 ms、珠峰 43 ms、泰山 90 ms（主题本身约 +4 ms）。整场景 ~124–144k 三角形、44–67 次绘制；`?fx=low`：~98–106k 三角形、雪粒 700（常规 2200）、排队 3 人、不要模糊层；主题 65 KB。`gen.styles()` 已经能拿到 snow_summit；两条怪路线（无红灯含下台阶 / 开头红灯 + 结尾排队）预览 errlog 空。**不理想**：铝梯只能顺着台阶斜度铺（引擎每级只升 0.12），「陡」靠两侧岩块 + 低机位仰拍撑；HUD 小标签和「N 步后：」还写「红灯」、登顶那 6 s HUD 海拔显示新一圈的 5200（hud.js，见留言）；和 L 线 lighting.js 合并后没一起测过（见留言） |
 | **E2 华山地图**（同分支 claude/exciting-ptolemy-bc4711） | `shellos/worlds/huashan_plank.json`（新）、`static/game/themes/cliff_path.js` + `themes/cliff_path/`（新：sky / rock / props）、`docs/提交/截图/huashan_*.png`；`worlds/__init__.py` 只加 ORDER 一项（珠峰后面）；顺手改了自己的 `snow_summit/hypoxia.js`（见下）；**engine / path / kit / hud / lighting 都没改** | 华山·长空栈道新世界 + 花岗岩绝壁主题 `cliff_path`，正面镜头拍出悬崖纵深 | ✅ **做完，未 push**。**路线** 60 步（按爬升比例压）：玉泉院 3 平 → 青柯坪山路 21 上坡（Z 字）→ 回心石 1 → 千尺幢 7 上台阶 → 百尺峡 2 → 老君犁沟 2 → 北峰 2 平 → 苍龙岭 7 上台阶 → 金锁关 2 平 → 中峰 5 上坡 → **南天门·扣安全锁**（wait）→ 长空栈道 5 平 → 南峰 2 → 南峰·华山极顶。HUD 海拔（terrain.py 同一公式）：411 / 回心石 1089 / 北峰 1622 / 金锁关 1961 / 栈道 2123 / 最后一步 2155。**按实地校对**（查证 workflow）：北峰 1614.9（HUD 读 1622，步长只能到这）、南峰 2154.9（2007 年重测，旧值 2160）是硬数字；玉泉院约 411、回心石约 1330 只有 GPS 轨迹类来源，金锁关、栈道海拔是推算，note 里写了「读数只是示意」。长空栈道其实是南峰东侧、从南天门外出去的一条**支路**，走到贺老洞要原路返回——游戏把它串在登顶前，note 写明；尽头刻「全真崖」（查不到有「长空栈道」四字石刻，所以没刻）；同心锁集中在**金锁关**，所以加了金锁关一段、锁挂在那里。**主题**：玉泉院山门（匾额双面字）、两侧花岗岩峪壁（竖向节理 + 水痕）、回心石；千尺幢 / 百尺峡 / 老君犁沟 = 两侧直上直下的窄缝，缝里低机位仰拍、「太华咽喉」「百尺峡」刻字，百尺峡缝口卡一块巨石；北峰；苍龙岭 = 刀背山脊（路沿一过就是直落的崖面，两侧铁链挂同心锁和红布条，上端「韩退之投书处」）；金锁关满链的锁；长空栈道 = 路面在这一段换成横铺木板、板外和板缝挖空（能从缝里往下看见云），右边一面前倾的高崖、崖上铁桩托板 + 保险铁链 + 挂着的安全带，左边连路底下全空；南峰「华山极顶」刻石；华山松、秦岭远山、深谷里的云海。**镜头**：苍龙岭、栈道上跟拍镜头挪到悬崖那侧、悬在空处；**正面镜头（V / `?cam=front`）**在栈道上和木板齐平、悬到崖外回看，峰哥全身、身后崖面上下都在；苍龙岭上站在岭上往回看，岭脊一路往下。离镜头 1.6 以内的崖面片元溶掉（镜头跟在后面 8 步，拐进峡缝不会整屏是墙）。峡缝高崖走过就溶、山上的东西走近才露、栈道高崖过了就溶（登顶回头不会看见比顶峰还高的墙）。藏起来的东西缩成点（不用 visible=false，管线第一帧建好，不卡）。**验收**：截图 `docs/提交/截图/huashan_{gate,slot,ridge,plank,summit}.png` + `_front`（`/game?npc=0&preview=huashan_plank&pos=1|28|41|55|59&summit=1`，带 ghost；`npc=0` 是为了不让捷风挡镜头），无头 Chrome（Metal）按真实时间等 data-ready 再截，errlog 空。`--sim` 走一圈 29.1 s 登顶，扣安全锁停下后 1.9 s 放行。合了最新 main 后 pytest **125 passed**（stress 那条同上次，临时拷 recordings 跑的）。**按美术范式**：台阶每级前缘 `SEG.stairs_up` 黄亮条（0.06）、影子 `WHO.ghost.bright` / 0.55 / `#063f3a`、接了 M2 的 `kit.stepFx`；`#wait` 大字交给 U（U 已经按段名写「● 南天门·扣安全锁」），主题不再改。两条怪路线（无红灯含下台阶 / 开头红灯 + 结尾红灯）预览 errlog 空。**复核**（多代理 review + 逐条复现）后改了：show() 显示时恢复原缩放（珠峰主题同样修了）；相邻地标的镜头锚点交错导致上下颠；栈道在路线末尾时崖不出现；峡缝铁链分组；太早的红灯不当栈道口；珠峰缺氧 fps 宽限期被加载吃掉；出峡缝那几步镜头还落在缝里、惊心石和峡壁挡住化身 → 惊心石化身一钻过就溶、峡壁一出缝就溶；华山松按树冠大小留距离（生成世界里 2/13 条路线会挡住化身）；溶到一半的东西不投影；华山专有刻字（太华咽喉 / 韩退之投书处 / 全真崖 / 华山极顶）只在世界名带「华山」时刻，其他 cliff_path 世界刻自己的路段名；登顶卡回到默认居中（放左边会盖住「华山极顶」石）。**性能**：没在 M2 上测。本机（2017 Radeon Pro 555）1080p 无头、光影线后期开着：华山 13.2 fps、泰山 11.7、珠峰 10.1；`?fx=low` 华山 17.6、`?fx=off` 华山 21.7 / 泰山 21.0——主题本身和泰山一个量级。珠峰慢在缺氧的 CSS 模糊层（叠在后期上，藏掉它 10.1 → 14.5），所以改了 `snow_summit/hypoxia.js`：模糊半径 5 → 3 px、约 6700 m 以下不开、页面连续 3 s 低于 40 fps 自动拿掉模糊层（暗角和呼吸照旧）。主题 56 KB。**不理想**：路线只有 28 个单位长，千尺幢的「70°」只能靠窄缝 + 仰拍撑（引擎每级只升 0.12）；登顶那 6 s HUD 海拔的老问题 U 线在改 |
 | **U 界面**（分支 claude/sad-bhabha-867c9e） | `static/game/hud.js`、`static/game/hud_*.js`（新）、`game.html` 里 HUD 的 DOM / CSS、`static/index.html`；`engine.js` 只加 1 行 `hud.attach(av)`、`makeHud` 多传一个 `!!PREVIEW` | 大屏：① 腿上的力看得见 ② AI 决策卡 + 造山过场 ③ 待机 / 准备 / 游戏中 / 登顶 状态流 + 二维码 ④ 右上安全灯 ⑤ 字号 / 主色统一；操作台精简 | ✅ **做完，未 push**（第 1 版 adac318 已发总指挥先合，第 2 版在后面）。① `hud_force.js`：左下「腿上的力」：左右腿各一条 6 s 滚动波形（`safety.sent`，每段颜色 = 出力那一刻的路段：上坡绿 / 台阶黄 / 下坡蓝 / 红灯红，平地 = 主题主色），±软限每 1 Nm 一条刻度，右边 52 px 大字 = 近 1.5 s 峰值，右上角显示当前强度；化身大腿加色光壳（绑定姿态按髋→膝摆好再 `bone.attach`，没改 avatar.js），\|sent\| > 0.05 按路段色亮、~0.2 s 暗掉。原来的小力矩条删了。② `hud_ai.js`：`swarm` 出新的一轮 → 右下弹卡「评委说「…」」，一行一个角色隔 0.65 s 亮出来，停 4.5 s；裁剪橙底抖一下、否决红底、生效绿字；参数字典翻成「强度 +0.5」。自动检索「命中经验」（不走蜂群时间线）也上这张卡（记忆员 · 生效）。看到地形导演「在造…」→ 全屏「AI 正在造山…」+ 评委原话 + 已等秒数；引擎切世界重载后（sessionStorage 接力，或 swarm 里 25 s 内的「已切到」）剖面逐段画出来 + 安全员那几行，~5 s 后淡出进新山。③ `hud_flow.js`：body 挂 `u-idle / u-ready / u-play / u-summit`。待机 = 45 s 没人动（没走、没按 R2、没换人、蜂群没新消息；`?idle=秒` 可改）→ 大标题 + 玩法四步轮播 + 右下二维码，镜头正面 / 侧面 / 跟拍每 7 s 轮换（写 `window.__camMode`，退出待机还原），峰哥每 25 s 说一句（调 H 线的 `__fenggeHud.say`，不出声）。准备 = safety 不是 ACTIVE → 大字「按住 R2 开始」（手柄连着时下面有 R2 按压条）。游戏中 = 只留峰哥、路况、力、进度（+ 安全灯 / AI 卡 / 影子标签），世界名面板和右下统计面板、右侧经验卡栏都拿掉了。登顶 = 成绩卡：用时大字 + 新纪录、和影子比（影子先到 → 慢几秒；没到 → 甩开几步；没影子 → 第一个爬上来的人）、「你的手感已存为经验卡 #n「…」」、二维码；**至少停 8 s**（引擎走 3 步就收登顶画面，原来接着走的人根本看不到卡），之后接着走 3 步 / 红灯 / 25 s 收。**急停压过一切**：DISARMED 时收成绩卡，大字红「急停中」。`hud_qr.js`：自己写的二维码编码（字节模式、纠错 M、版本 1–10、8 种掩码按罚分挑），Chrome BarcodeDetector 解 6 条（2–200 字节，版本 1 / 3 / 5 / 8 / 10，含中文）全对。`?ui=idle|ready|play|summit` 固定状态截图用；离线预览默认 play（登顶预览 = summit）。④ 右上安全灯（z 最高，任何状态都在）：灰「R2 松开」/ 绿「出力中」（低置信时小字「没认准步子，力归零」）/ 红闪「急停」。⑤ 1080p 下路段名、第 n / N 步、n 步后、红灯站定秒数、海拔、力矩值、登顶用时都 ≥ 48 px；面板统一深色半透明 + 主题主色 `theme.accent`。**操作台**（index.html）：急停挪到安全面板最上面，130 px 高、48 px 字、最红；重新上膛、按住助力、模拟走路、发出力矩、软限 / 死人开关都在（**安全功能一个没删，按钮行为没改**）；第一屏 = 安全 + 记忆（换人 / 评委说 / 经验卡删 / 恢复）+ 蜂群（造山框 + 时间线加高）+ 地形；顶栏加三个灯：大脑（在线 / 离线兜底 / 没 key）、峰哥语音（`fengge.source`：大模型现写 / 兜底语录 / 还没开口）、手柄（R2 %）；控制律参数和事件流在第二屏；髋角曲线 / 相位 / 腿部 3D / 步态签名 / 手柄键位折进「调试」，**点开才画**，腿部 3D 第一次点开才建（它自己 60 fps 渲染，以前一直在后台跑，和游戏抢 CPU）。**验收**（自己起的 `--sim --force-deadman --http 8877`，大脑 / TTS 指到空端口走规则兜底；没碰展位 ShellOS）：`docs/提交/截图/ui_idle.png`、`ui_ready.png`、`ui_play_force.png`（泰山台阶，黄色波形 + 大腿黄光）、`ui_ai_card.png`（「没感觉，重一点」→ 安全员裁剪橙底 → 生效）、`ui_forge_wait.png`、`ui_forge_reveal.png`、`ui_summit.png`、`ui_estop.png`、`ui_dashboard.png`（1440×900 第一屏）、`ui_dashboard_debug.png`。**FPS**：无头 Chrome（Metal）、泰山、模拟器 100 步/分在走，改前（889d8ae）/ 改后（7c50c71）两棵树各起一个模拟器，各采 10 s。第一次在 8877 / 8878 测（16:18 后 R 线的请求误打到过 8877，所以作废重测）；17:00 在确认空着的 8897 / 8898 重测 3 轮，测完核对 walk=true、cadence 100、force null：改前 31.4 / 32.4 / 32.9，改后 32.8 / 33.2 / 33.8 fps，没有下降；力波形 rAF 每帧 0.37 ms，造山过场循环平时 < 0.01 ms。截图里没有「（强制）」路段标记，没受 R 线影响。合 main（8215a79，含光影 / 珠峰 / 跑酷）后在珠峰北坡看过：无报错。帧率调试行默认藏，`/game?debug=1` 才显示。**第 3 轮（E 线反馈 + 闪屏自查）**：① 站定段按世界说人话：路段名里带「红灯」（东京）才叫红灯；珠峰「北坳营地·吸氧」「第二台阶·排队上梯」的中间大字直接写地名，路段标签 / 力面板标签 / 图例写「站定」，「n 步后：第二台阶·排队上梯」；造山剖面下那行同理（`hud_force.js` 的 `kindName`）。snow_summit 主题里改 `#wait .big` 的那段现在和 HUD 写的一样，可以删。② 登顶那 6 s 海拔 / 步数写山顶（珠峰 8848.86 m、第 56 / 56 步），不再显示起点 5200。③ 闪屏自查（15 s 站着 + 15 s 走，数 DOM 变化）：状态流只在登顶时切，没有来回跳；大腿光约 3 次 / s，就是每一步的出力脉冲，设计如此；**找到并修了**：安全灯和路段名以前每 100 ms 整块重写（肉眼不闪但每次重排），现在值变了才写；真机上扳机轻搭在门槛上时 ACTIVE / ARMED 会 10 Hz 来回跳，以前「按住 R2 开始」大字和面板会跟着闪——离开「游戏中」加了 1.2 s 迟滞（进游戏中、急停不等），安全灯颜色照实时，小字「没认准步子」至少停 1.5 s。`tests/test_hud_flow.py`（node 跑 `pickMode`：抖 6 s 只切 1 次，把迟滞改成 0 会挂）。外骨骼没连时灯写「外骨骼没连上」。整屏一直闪不像是 HUD 造成的（HUD 没有整屏元素会高频开关），得等 L 线查光影。**第 4 轮 · 游戏 UI 第一批（开始界面 + 设置 + 暂停）**：`hud_menu.js`（新）+ `settings.js`（新，普通脚本，game.html 里在所有模块前加载）。① **开始界面**：标签页第一次开 /game 出（切世界的重载不出；`?title=0/1`），待机时也回到它当吸引画面；「峰哥亡命天涯」大标题 + 峰哥大头像（琥珀框，旁边轮换说几句）+ 当前地图 + 菜单（开始爬山 / 选择地图 / 设置 / 玩法说明 / 制作团队）+ 四步玩法条 + 微信群码（S 线的 `wx_qr.jpg`，9/30 前有效，**原来那个 GitHub 链接扫了 404 的问题一起解决了**；`?qr=网址` 仍可换成现场编码）；背景是当前世界沿路慢慢航拍（借引擎 `__camHold`，离开前先交还，导游在「准备」里接手不打架）。按 Enter / 按住 R2（ACTIVE 那一下）/ 开始走 → 进游戏。备用版 `?fengge=0`：标题换成「原地迈步，腿上爬山」、不出头像和峰哥署名。② **设置**（存 localStorage；地址栏写了的以地址栏为准，那一行显示「地址栏固定」）：峰哥语音音量、捷风 / 音效音量（游戏里现在没有别的音效，只有捷风的声音）、字幕、镜头（即时生效）、画质 高 / 低 / 关、捷风出现、捷风说话（缺省不说）、峰哥导游、峰哥解说 多 / 少（少 = 只留登顶 / 红灯 / 造山 / 改手感）。做法：各线本来就读地址栏开关，settings.js 在模块加载前把和缺省不同的设置补进地址栏（记在 `_si=`，下次先删再补），画质 / 捷风 / 导游改了返回时自动重载；音量 = 包一层 `HTMLMediaElement.play` 按网址分两路；解说「少」= CSS 藏那几种事件的气泡 + 跳过它们的声音。**没改任何别人的文件**。③ **暂停**（Esc）：继续 / 重新开始（回山脚）/ 换地图 / 设置 / 退出到标题；只盖住画面，暂停期间一个请求都不发；「重新开始」= 替用户按一下 R，走 input.js 原来那条回山脚的路。菜单开着时按键在捕获阶段全吃掉（空格 / R / 1 2 3 / V 都不漏给 input.js，实测 sim 的 walk / cadence 不变）。**手柄不拿来点菜单**：ShellOS 把手柄每个键都占了（↑↓ 调参数、× 急停、○ 上膛、Options 复位），网页再用会连带改参数；手柄只有「按住 R2 = 开始」。④ 玩法说明（键盘 / 手柄对照）、制作团队（球球、anni、峰哥授权、素材来源；**待球球确认名单**）。⑤ 顺手按 ART 美术范式收了 U 线的 P0 / P1：`--acc` 全局霓虹紫（`applyCssVars()`，不再跟主题 accent）、路段色一律 `style.js` 的 `SEG`（下台阶黄、红灯 #ff4d4f、平地灰）、红灯面板边框 / 大字用 `--seg-wait`、AI 卡角色名白 + 结论标签用 UI 状态色、「新纪录」徽章紫、`.panel` 去掉 backdrop-filter、登顶卡在左下时最宽 44 vw。急停压过开始界面（红字「急停中」在上层）。`tests/test_hud_flow.py` 加了开始界面两条。**验收**：`docs/提交/截图/ui_menu_title.png`、`ui_menu_title_alt.png`（备用版）、`ui_menu_settings.png`、`ui_menu_pause.png`、`ui_menu_help.png`、`ui_menu_credits.png`、`ui_menu_estop_over_title.png`（我的模拟器在负载下被看门狗断了，正好拍到急停压过开始界面）；pytest 125 过 1 挂（test_fault 同前）。**第 4 轮 · 第二批**：⑥ **选择地图**（保留独立页 `/worlds`，因为切世界要 POST `/terrain`，游戏页不发控制请求；页面原有的造山框、「进入」按钮的请求一个没改）：和游戏页同一套样式（rem 字号层级、深色面板、霓虹紫、路段色从 `style.js` 来）；卡片加难度徽章（入门 / 适中 / 硬核，按台阶占比 + 步数 + 站定段）、步数 / 台阶% / 红灯或站定数 / 爬升、最佳成绩 + 影子是谁；键盘 ←→↑↓ 按屏幕位置选卡、Enter 进入、/ 跳到造山框、Esc 回游戏；进页默认选中当前世界。**最佳成绩的来源**：ShellOS 只在内存里存每座山的影子 / 最佳，`/state` 只给当前世界，所以游戏页每次登顶记一份到 localStorage（`fg_records`，同一台大屏），选山页再用 `/state` 补当前世界的——ShellOS 重启后这边的记录还在，两边可能对不上；要严格一致得在 `/worlds.json` 里带上每座山的 best（server.py / worlds 是总指挥的）。⑦ **结算画面**：登顶卡加步数、峰哥这次登顶的评语（`fengge` 事件 summit 的那一句，来了就填进卡里）、「Enter 再来一次」（= 收起卡片：ShellOS 登顶后本来就从山脚开下一圈，不发请求）和「M 换地图」。**验收**：`ui_menu_maps.png`、`ui_menu_results.png`（泰山登顶 17.5 s 新纪录 · 39 步 · 甩开影子 · 峰哥评语）。pytest 125 过 1 挂（同前）。pytest 111 过 1 挂（`test_fault` 缺 gitignore 的 synthetic-walk.csv，同前）。**没做到 / 照实写**：① 二维码现在指向 `github.com/QiuQiuNB666/aima/blob/main/docs/提交/onepager.html`，**仓库公网 404（私有），手机扫了打不开**，要有公开网址（仓库转公开 / Pages / 别处托管）后用 `/game?qr=网址` 或改 `hud_flow.js` 的 `QR_URL`；② 「演示循环」只做了镜头轮换 + 标题轮播 + 峰哥气泡，化身原地待机动作，没有自动爬山回放（要改引擎）；③ 语音灯只能看 `fengge.source`（/state 里没有 TTS 状态，声音实际在游戏屏 voice.js 播）；④ 真机没试（只在模拟器上看过），R2 按压条要手柄连上才出现 |
